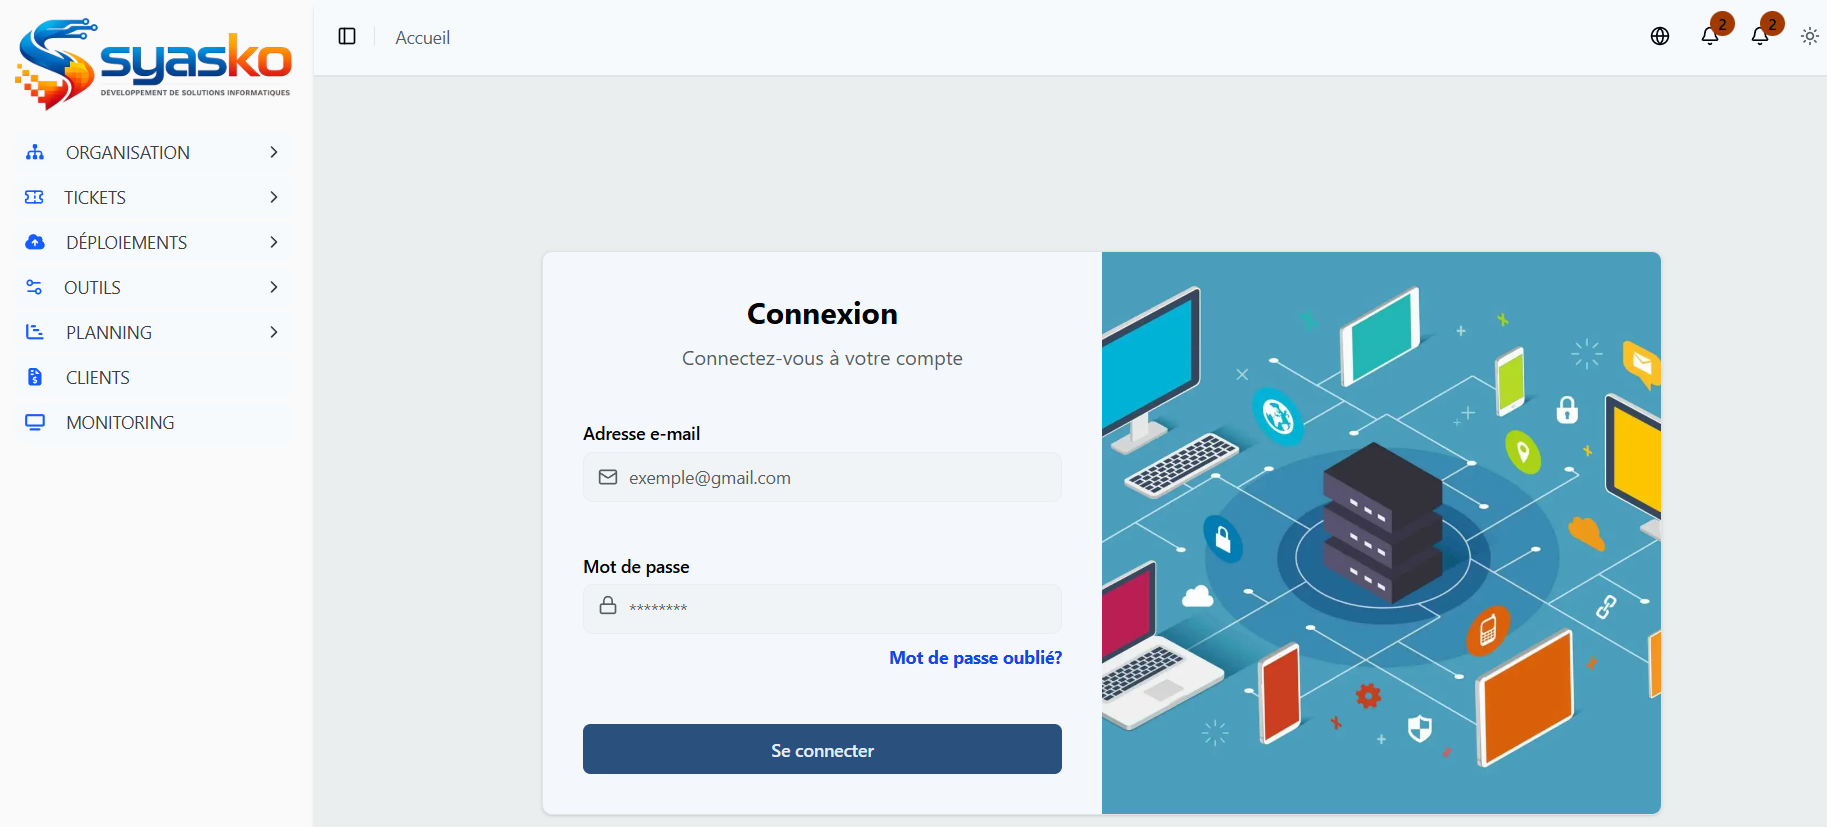
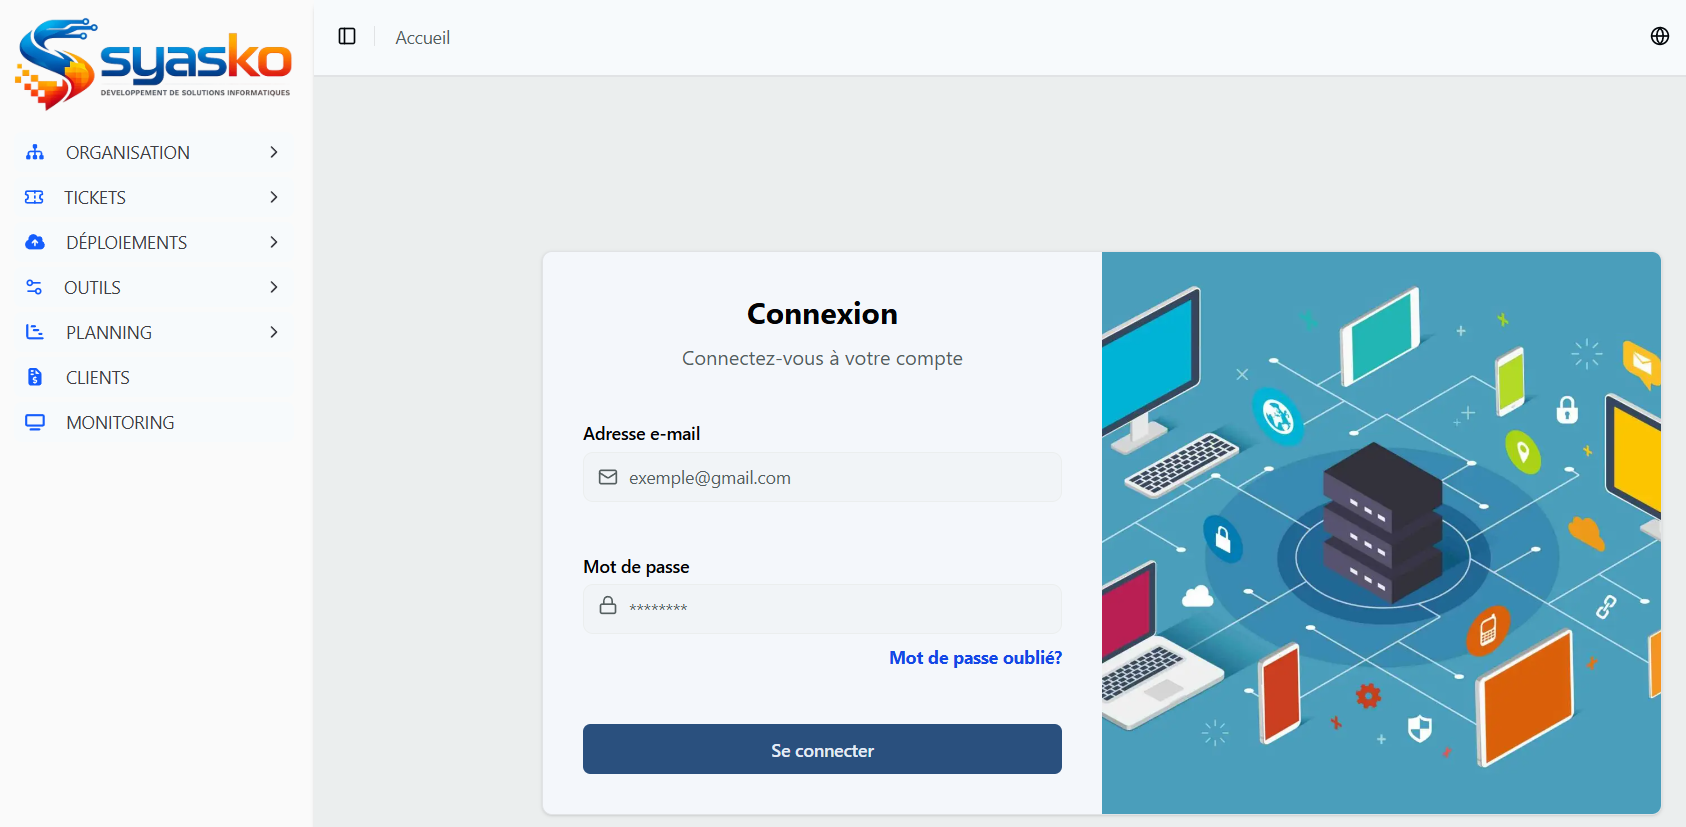
ajout des images pour les projets portfolio et ticketing

diff --git a/src/data/projects.ts b/src/data/projects.ts
@@ -185,7 +185,13 @@ const myProjects: Project[] = [
         demo: "https://simplicekolomou.github.io/",
         type: "personal",
         image: "/images/portfolio/portfolio-presentation.png",
-        images: []
+        images: [
+            "/images/portfolio/portfolio-experiences.png",
+            "/images/portfolio/portfolio-project-details.png",
+            "/images/portfolio/portfolio-projects.png",
+            "/images/portfolio/portfolio-skills.png",
+            "/images/portfolio/portfolio-presentation.png"
+        ]
     },
     {
         id: "ticketing",
@@ -211,7 +217,15 @@ const myProjects: Project[] = [
         type: "team",
         team: ["Aboubacar Sylla"],
         image: "/images/ticketing/ticketing-presentation.png",
-        images: []
+        images: [
+            "/images/ticketing/ticketing-create-ticket.png",
+            "/images/ticketing/ticketing-customer.png",
+            "/images/ticketing/ticketing-inbox.png",
+            "/images/ticketing/ticketing-notifications.png",
+            "/images/ticketing/ticketing-support.png",
+            "/images/ticketing/ticketing-team.png",
+            "/images/ticketing/ticketing-presentation.png"
+        ]
     }
 ];
 